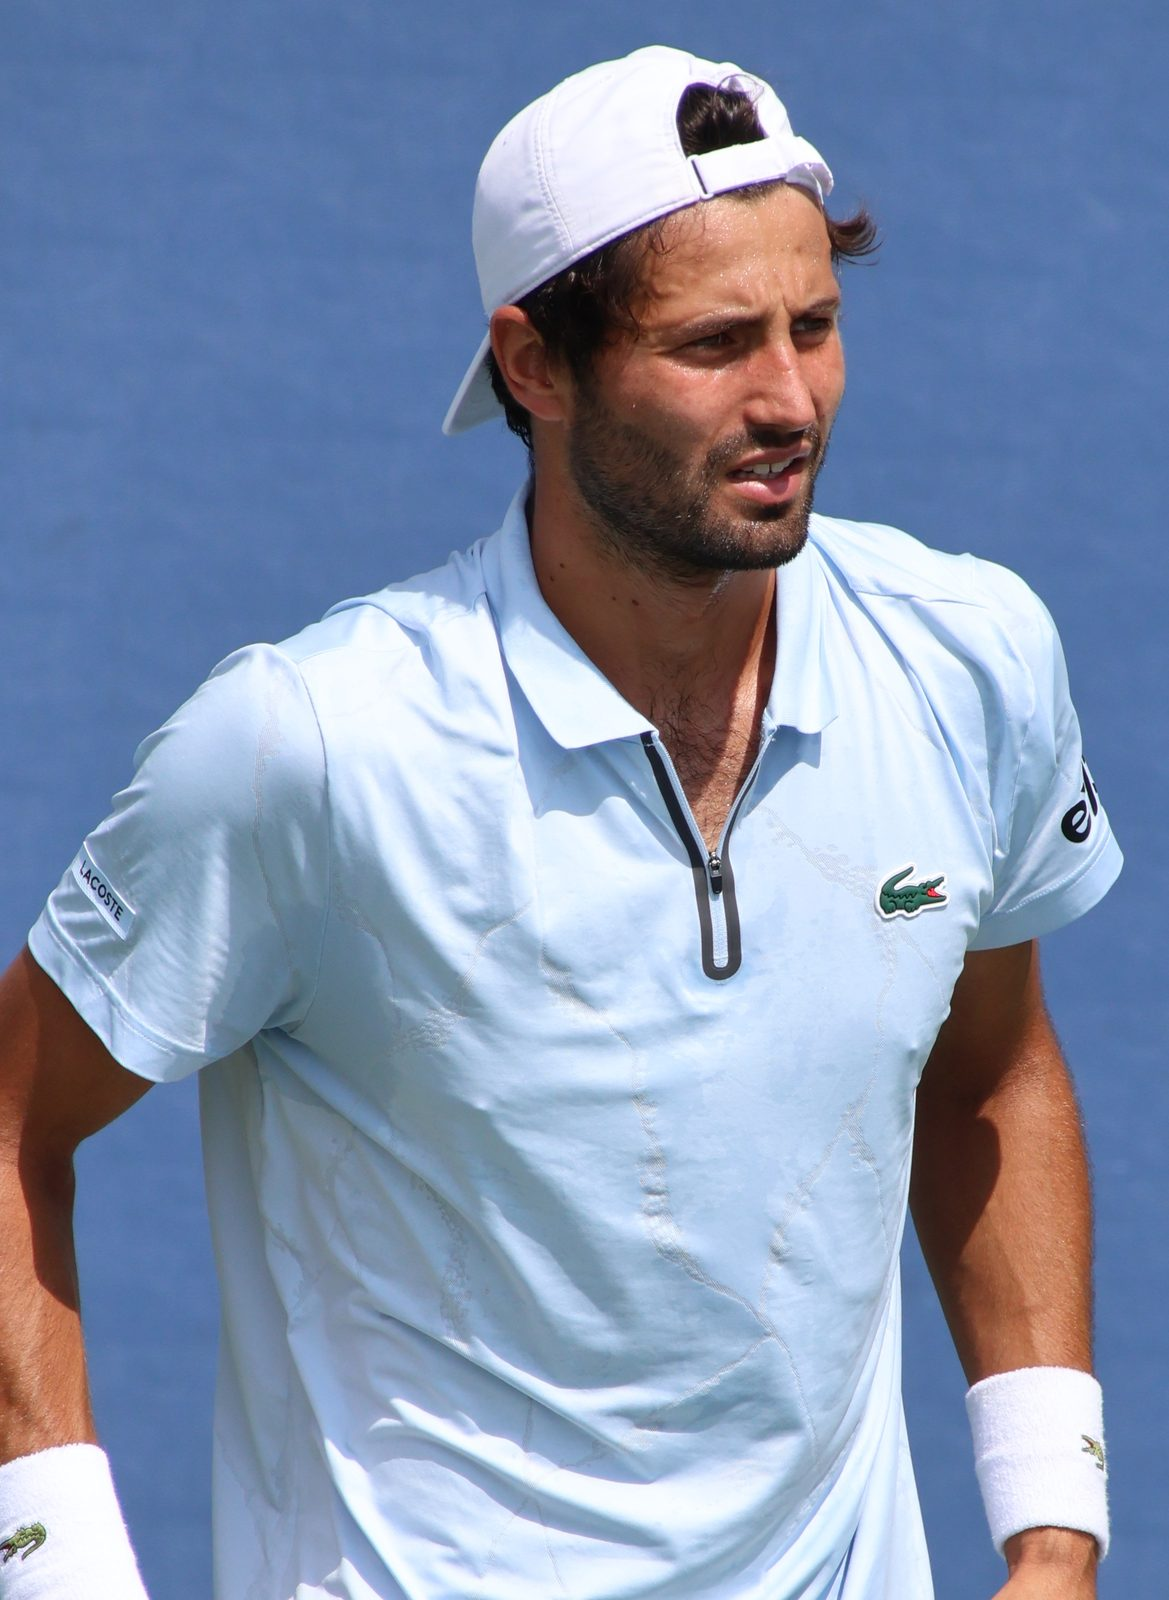
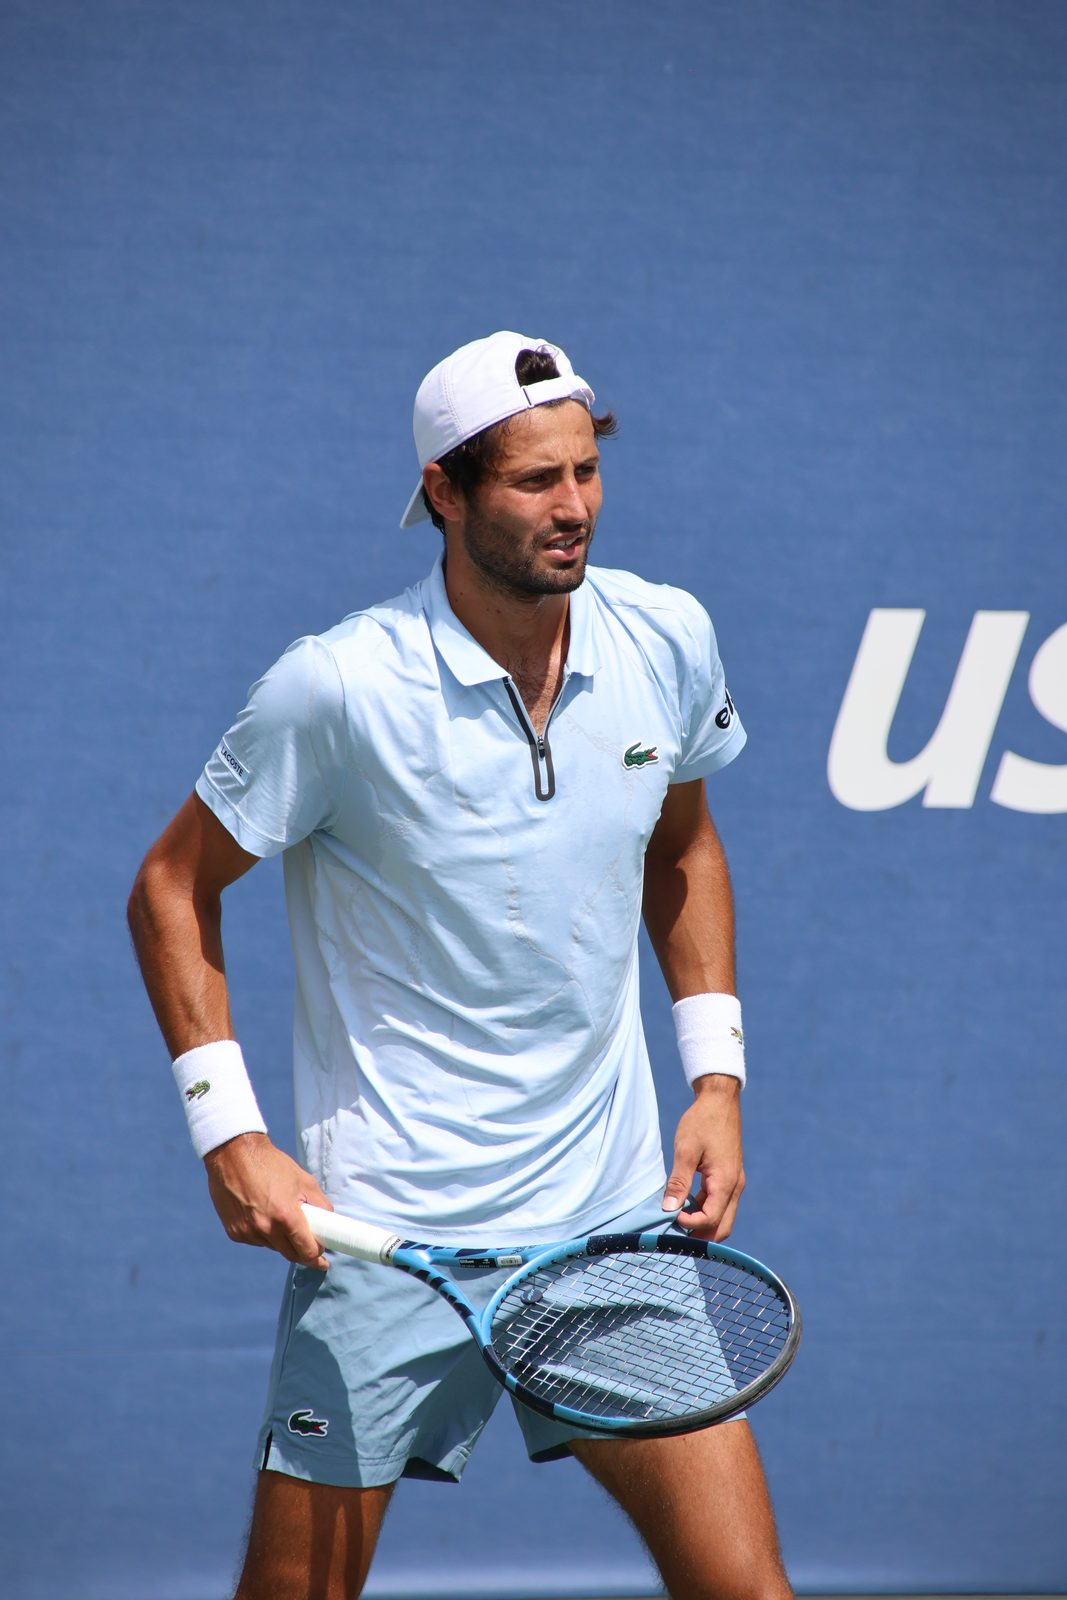
Cover: backfill vet visivo su 24-26/10
Corrette 10 cover vecchie che violavano i criteri (primi piani del volto,
concerti/eventi in arena, aeree di campi vuoti, tenda controllo accessi,
ritratti in posa). Esempi: Bernet-Altmaier e Altmaier-Cerundolo (concerti),
Eala (ritratto -> azione), Bertola-Paul/Struff/Neumayer (primi piani).
Resta 1 sola cover debole (Yang-Derepasko, challenger Ningbo: due giocatori
senza foto Commons, campo da tennis vuoto - comunque pertinente al tennis).

Tutte le immagini degli articoli 24-28/10 ora conformi ai criteri.

diff --git a/src/content/articoli/2026-10-24-r-bertola-vs-j-paul-basel-pronostico-analisi.md b/src/content/articoli/2026-10-24-r-bertola-vs-j-paul-basel-pronostico-analisi.md
@@ -21,7 +21,7 @@ verdetto: "Oggi la può spuntare Bertola: arriva da un periodo più intenso e di
 descrizione: "Bertola e Paul si giocano un posto in finale all'ATP di Basilea: forma recente, unico precedente diretto e stili a confronto in una semifinale da seguire."
 pubblicato: true
 cover_image: "/covers/2026-10-24-r-bertola-vs-j-paul-basel-pronostico-analisi.jpg"
-cover_credit: "Rémy Bertola (2026 US Open) 04 (cropped).jpg | Hameltion | CC BY-SA 4.0"
+cover_credit: "Rémy Bertola (2026 US Open) 01.jpg | Hameltion | CC BY-SA 4.0"
 ---
 
 La **semifinale** dell'ATP di **Basilea** mette di fronte R. Bertola e J. Paul, due giocatori che raggiungono il penultimo atto del torneo seguendo strade differenti ma con la stessa voglia di cogliere un'occasione importante sul veloce indoor. È il tipo di sfida che conviene leggere osservando il percorso delle ultime settimane più che un singolo numero, perché entrambi hanno vissuto un autunno fitto di partite, di soddisfazioni e di qualche passaggio a vuoto. Capire in quale condizione arrivano all'appuntamento di oggi diventa allora più utile di qualsiasi etichetta, anche perché il tabellone li ha portati fin qui attraverso settimane intense e campi diversi.

diff --git a/src/content/articoli/2026-10-24-l-fruhvirtova-vs-m-yamaguchi-guangzhou-pronostico-analisi.md b/src/content/articoli/2026-10-24-l-fruhvirtova-vs-m-yamaguchi-guangzhou-pronostico-analisi.md
@@ -21,7 +21,7 @@ verdetto: "Oggi la può spuntare L. Fruhvirtova: il bilancio più equilibrato de
 descrizione: "Semifinale WTA a Guangzhou tra L. Fruhvirtova e M. Yamaguchi: forma recente, tornei giocati e stile a confronto sul cemento cinese. L'analisi completa."
 pubblicato: true
 cover_image: "/covers/2026-10-24-l-fruhvirtova-vs-m-yamaguchi-guangzhou-pronostico-analisi.jpg"
-cover_credit: "Linda Fruhvirtova (Roland Garros 2023) 07.jpg | Hameltion | CC BY-SA 4.0"
+cover_credit: "Sydney International Tennis ATP 250 (46001156835).jpg | Rob Keating from Canberra, Australia, Australia | CC BY-SA 2.0"
 ---
 
 Il tabellone del torneo WTA di Guangzhou consegna una semifinale dal sapore particolare, con **L. Fruhvirtova** e **M. Yamaguchi** chiamate a contendersi un posto nell'atto conclusivo. Sul cemento cinese si affrontano due giocatrici che arrivano all'appuntamento con storie recenti differenti, accomunate però dall'aver superato i turni necessari per spingersi fino a questo penultimo ostacolo. Per entrambe la giornata del 24 ottobre rappresenta un crocevia di una stagione 2026 ormai nella sua fase conclusiva.

diff --git a/src/content/articoli/2026-10-24-k-day-vs-s-zhang-tokyo-pronostico-analisi.md b/src/content/articoli/2026-10-24-k-day-vs-s-zhang-tokyo-pronostico-analisi.md
@@ -20,7 +20,7 @@ verdetto: "Oggi la può spuntare Day: la continuità delle ultime settimane e la
 descrizione: "Semifinale WTA a Tokyo tra K. Day e S. Zhang: forma recente, unico precedente diretto e chiavi tattiche di una sfida sul cemento tutta da seguire oggi."
 pubblicato: true
 cover_image: "/covers/2026-10-24-k-day-vs-s-zhang-tokyo-pronostico-analisi.jpg"
-cover_credit: "Ariake tennis park.jpg | Arne Müseler | CC BY-SA 3.0 de"
+cover_credit: "Zhang Shuai at the 2016 US Open.jpg | si.robi | CC BY-SA 2.0"
 ---
 
 Il tabellone di Tokyo consegna una semifinale dal sapore particolare, con **K. Day** e **S. Zhang** chiamate a contendersi un posto nell'atto conclusivo del torneo. Due giocatrici arrivate a questo appuntamento con traiettorie differenti, un unico precedente alle spalle e la sensazione che il cemento giapponese possa finire per premiare chi saprà imporre per prima il proprio ritmo. È il tipo di sfida che si lascia leggere in più modi, perché mette a confronto chi arriva con il vento in poppa e chi invece custodisce il ricordo di un successo diretto ancora relativamente recente.

diff --git a/src/content/articoli/2026-10-26-d-altmaier-vs-j-m-cerundolo-basel-pronostico-analisi.md b/src/content/articoli/2026-10-26-d-altmaier-vs-j-m-cerundolo-basel-pronostico-analisi.md
@@ -21,7 +21,7 @@ descrizione: "Altmaier e Cerundolo si affrontano di nuovo al torneo di Basilea s
 pubblicato: true
 generato_il: "2026-10-26T07:30"
 cover_image: "/covers/2026-10-26-d-altmaier-vs-j-m-cerundolo-basel-pronostico-analisi.jpg"
-cover_credit: "Jakobsarena Publikum - IMG 20231105 084045.jpg | RouteMedia | CC BY-SA 4.0"
+cover_credit: "Daniel Altmaier (2023 US Open) 06.jpg | Hameltion | CC BY-SA 4.0"
 ---
 
 Il torneo di **Basilea** propone subito un confronto dal sapore familiare: Daniel Altmaier e Juan Manuel Cerundolo tornano uno di fronte all'altro sul veloce indoor svizzero, dopo essersi incrociati a piu' riprese negli ultimi tempi. Il tedesco e l'argentino si conoscono ormai a memoria, tanto che pochi duelli nel circuito possono contare su un copione altrettanto recente e ripetuto. Questa sfida valida per i sedicesimi di finale aggiunge cosi' un nuovo capitolo a una rivalita' che si e' infittita con il passare dei mesi e che promette scintille davanti al pubblico svizzero.

diff --git a/src/content/articoli/2026-10-24-xin-wang-vs-t-valentova-tokyo-pronostico-analisi.md b/src/content/articoli/2026-10-24-xin-wang-vs-t-valentova-tokyo-pronostico-analisi.md
@@ -20,7 +20,7 @@ verdetto: "Oggi la può spuntare Valentova: arriva con un bilancio positivo e ha
 descrizione: "Xinyu Wang e Tereza Valentova si sfidano per la prima volta nella semifinale WTA di Tokyo: forma recente, numeri di stagione e stili di gioco a confronto."
 pubblicato: true
 cover_image: "/covers/2026-10-24-xin-wang-vs-t-valentova-tokyo-pronostico-analisi.jpg"
-cover_credit: "Tokyo 2020 Olympics in Ariake, tennis center court entrance 2.jpg | Syced | CC0"
+cover_credit: "XINYU WANG 20220919a3.jpg | 江戸村のとくぞう | CC BY-SA 4.0"
 ---
 
 La semifinale del torneo WTA di **Tokyo** mette di fronte due giocatrici che arrivano all'appuntamento percorrendo strade molto diverse. Da una parte Xinyu Wang, cinese di consolidata esperienza nel circuito maggiore; dall'altra Tereza Valentova, ceca protagonista in questa stagione di una crescita costante. Un dettaglio rende la sfida ancora più intrigante: le due non si sono mai incontrate prima d'ora.

diff --git a/src/content/articoli/2026-10-25-j-l-struff-vs-t-griekspoor-brussels-pronostico-analisi.md b/src/content/articoli/2026-10-25-j-l-struff-vs-t-griekspoor-brussels-pronostico-analisi.md
@@ -21,7 +21,7 @@ descrizione: "Struff contro Griekspoor nella finale ATP di Bruxelles: percorsi, 
 pubblicato: true
 generato_il: "2026-10-25T07:30"
 cover_image: "/covers/2026-10-25-j-l-struff-vs-t-griekspoor-brussels-pronostico-analisi.jpg"
-cover_credit: "Tallon Griekspoor (2023 DC Open) 05.jpg | Hameltion | CC BY-SA 4.0"
+cover_credit: "Tallon Griekspoor (2023 DC Open) 04.jpg | Hameltion | CC BY-SA 4.0"
 ---
 
 La finale di **Bruxelles** mette di fronte due interpreti del tennis di potenza, Jan-Lennard Struff e Tallon Griekspoor, arrivati all'ultimo atto dopo una settimana costruita vittoria dopo vittoria. Entrambi hanno dovuto superare quattro turni su un cemento indoor che premia il servizio e il gioco aggressivo, e nessuno dei due si presenta per caso: il tabellone li ha messi alla prova in modo diverso, ma il risultato è lo stesso, una finale guadagnata sul campo.

diff --git a/src/content/articoli/2026-10-25-r-matsuda-vs-n-honda-ningbo-pronostico-analisi.md b/src/content/articoli/2026-10-25-r-matsuda-vs-n-honda-ningbo-pronostico-analisi.md
@@ -22,7 +22,7 @@ descrizione: "Semifinale di Ningbo tra R. Matsuda e N. Honda: primo confronto di
 pubblicato: true
 generato_il: "2026-10-25T07:30"
 cover_image: "/covers/2026-10-25-r-matsuda-vs-n-honda-ningbo-pronostico-analisi.jpg"
-cover_credit: "Ningbo Yinzhou Tennis Center, 2025-10-25 01.jpg | Cz4523 | CC BY-SA 4.0"
+cover_credit: "Sydney International Tennis ATP 250 (46001156835).jpg | Rob Keating from Canberra, Australia, Australia | CC BY-SA 2.0"
 ---
 
 Il **torneo di Ningbo** propone una semifinale dal sapore domestico: R. Matsuda e N. Honda, due giapponesi cresciuti sugli stessi campi del circuito minore asiatico, si contendono un posto in finale. Il dato che salta all'occhio è che non si sono mai affrontati prima: nessuno dei due porta in campo il peso di un precedente da difendere o da ribaltare, e questo rende il copione ancora più aperto.

diff --git a/src/content/articoli/2026-10-26-a-eala-vs-m-stojsavljevic-tokyo-pronostico-analisi.md b/src/content/articoli/2026-10-26-a-eala-vs-m-stojsavljevic-tokyo-pronostico-analisi.md
@@ -21,7 +21,7 @@ descrizione: "Eala contro Stojsavljevic al WTA di Tokyo: un confronto inedito su
 pubblicato: true
 generato_il: "2026-10-26T07:30"
 cover_image: "/covers/2026-10-26-a-eala-vs-m-stojsavljevic-tokyo-pronostico-analisi.jpg"
-cover_credit: "Alex Eala (2024 US Open) 02 (cropped).jpg | Hameltion | CC BY-SA 4.0"
+cover_credit: "Alex Eala (2024 US Open) 02 (cropped2).jpg | Hameltion | CC BY-SA 4.0"
 ---
 
 Il tabellone WTA di **Tokyo** mette di fronte al primo turno utile due giocatrici con percorsi recenti piuttosto diversi: la filippina Alexandra Eala e la britannica Mika Stojsavljevic. È un confronto inedito, privo di qualsiasi precedente registrato tra le due, che va in scena sul cemento della capitale giapponese in un tratto ormai avanzato di stagione, con l'autunno 2026 che accompagna il calendario verso la chiusura.

diff --git a/src/content/articoli/2026-10-24-h-bernet-vs-d-altmaier-basel-pronostico-analisi.md b/src/content/articoli/2026-10-24-h-bernet-vs-d-altmaier-basel-pronostico-analisi.md
@@ -21,7 +21,7 @@ verdetto: "Oggi la può spuntare Bernet: lo svizzero arriva lanciato da un ruoli
 descrizione: "ATP Basel, semifinale tra Henry Bernet e Daniel Altmaier: forma, precedenti, stile e superficie a confronto per capire chi arriva meglio all'appuntamento."
 pubblicato: true
 cover_image: "/covers/2026-10-24-h-bernet-vs-d-altmaier-basel-pronostico-analisi.jpg"
-cover_credit: "Jakobsarena Publikum - IMG 20231104 113953.jpg | RouteMedia | CC BY-SA 4.0"
+cover_credit: "Daniel Altmaier (2023 US Open) 09.jpg | Hameltion | CC BY-SA 4.0"
 ---
 
 Il tabellone dell'ATP di **Basel** regala una semifinale dal sapore inatteso: lo svizzero Henry Bernet sfida il tedesco Daniel Altmaier sul veloce indoor di casa elvetica. Due traiettorie diverse si incontrano a un passo dalla finale, e il contesto rende l'esito tutt'altro che scontato.

diff --git a/src/content/articoli/2026-10-25-l-neumayer-vs-t-droguet-vienna-pronostico-analisi.md b/src/content/articoli/2026-10-25-l-neumayer-vs-t-droguet-vienna-pronostico-analisi.md
@@ -21,7 +21,7 @@ descrizione: "Finale ATP Vienna tra l'austriaco Neumayer e il francese Droguet: 
 pubblicato: true
 generato_il: "2026-10-25T07:30"
 cover_image: "/covers/2026-10-25-l-neumayer-vs-t-droguet-vienna-pronostico-analisi.jpg"
-cover_credit: "Titouan Droguet (2026 US Open) 01 (cropped).jpg | Hameltion | CC BY-SA 4.0"
+cover_credit: "Titouan Droguet (2026 US Open) 01.jpg | Hameltion | CC BY-SA 4.0"
 ---
 
 La finale dell'ATP di **Vienna** mette di fronte l'austriaco Lukas Neumayer e il francese Titouan Droguet, due giocatori approdati all'ultimo atto da percorsi diversi ma spinti dalla stessa voglia di chiudere la settimana con un trofeo pesante. Il campo veloce indoor della capitale austriaca fa da cornice a una sfida che arriva al termine di giorni intensi per entrambi.
